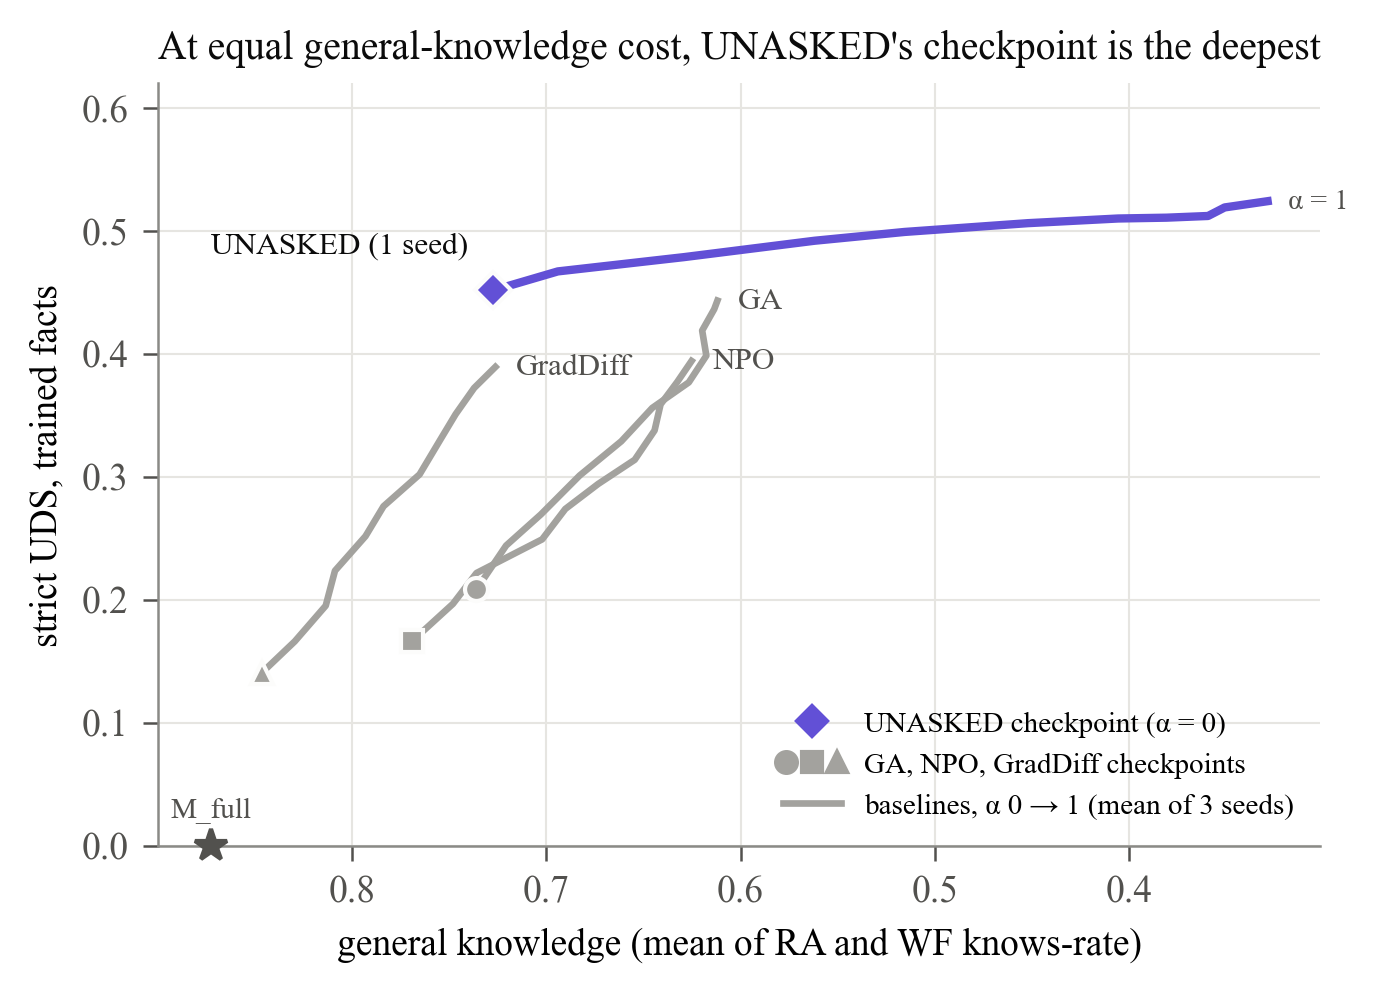
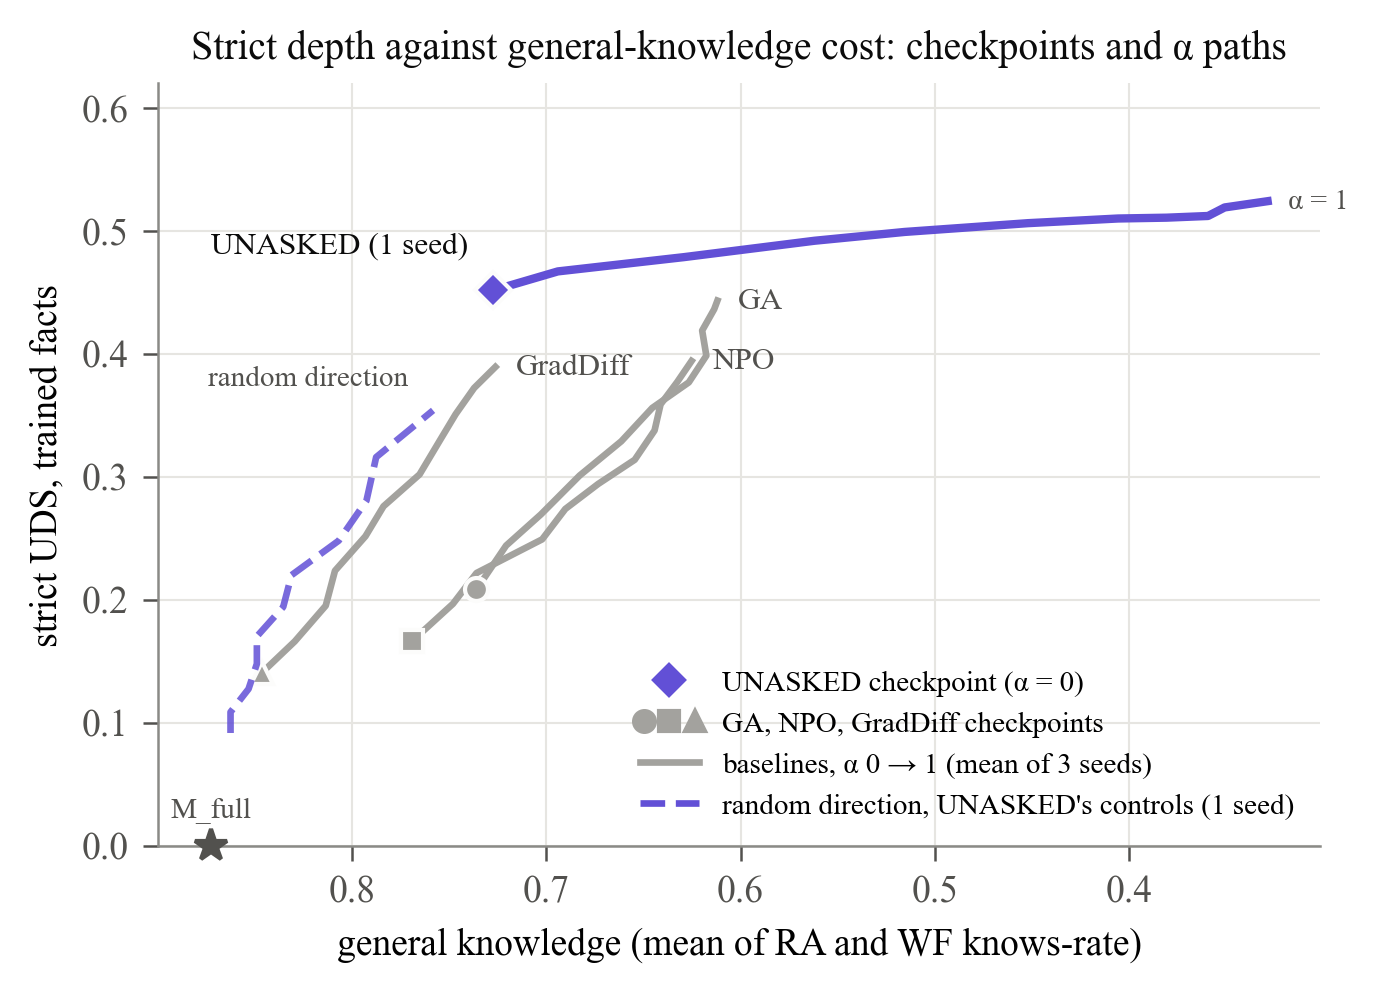
RESULTS 19.5: UNASKED matched-damage control (E2 met in R) and the general-knowledge gap; report and figure 16 read every control of a seed as one damage path

diff --git a/deeperase/scripts/unasked_report.py b/deeperase/scripts/unasked_report.py
@@ -5,7 +5,13 @@ point and computes:
 
 * UDS and strict UDS on trained, held-out and paraphrased-question facts;
 * R, RA and WF;
-* the damage-matched excess of strict UDS, when the seed has a control;
+* the damage-matched excess of strict UDS, when the seed has a control (the
+  pre-registered control, matched on R: the untagged ``control_x*`` run);
+* the same excess matched on general knowledge (mean of RA and WF) instead,
+  exploratory. UNASKED costs far more general knowledge than R, so R-matched
+  damage is the lenient comparison for it. All control runs of a seed (e.g. a
+  ``_genmatch`` run at a larger scale) share one random direction, so together
+  they form one damage path;
 * for runs with the paraphrased-answer split, the same facts' UDS and strict
   UDS on the original and on the paraphrased answer (paired: only facts with
   a KE layer in both).
@@ -58,6 +64,50 @@ def point(audit: dict, run: Path, alpha: float) -> dict:
     return out
 
 
+def _general(run: Path, alpha: float) -> Optional[float]:
+    g = _groups(run, alpha)
+    return (g["RA"] + g["WF"]) / 2 if g.get("RA") is not None and g.get("WF") is not None else None
+
+
+def _interp(x: float, pts: List[tuple]) -> Optional[float]:
+    pts = sorted(pts)
+    for (x0, y0), (x1, y1) in zip(pts, pts[1:]):
+        if x0 <= x <= x1:
+            return y0 if x1 == x0 else y0 + (y1 - y0) * (x - x0) / (x1 - x0)
+    return None
+
+
+def general_matched(run: Path, audit: dict, controls: Sequence[Path],
+                    split: str = "trained") -> Optional[dict]:
+    """Strict-UDS excess over random damage of the same general-knowledge cost.
+
+    For each alpha of the run, the controls' strict UDS is interpolated at the
+    run's general knowledge (mean of RA and WF) along the controls' points.
+    Alphas outside the controls' range are left out.
+    """
+    pts = []
+    for c in controls:
+        ac = audit_run(c)
+        for r in (ac or {}).get("splits", {}).get(split, []):
+            g = _general(c, r["alpha"])
+            if g is not None:
+                pts.append((g, r["strict"]))
+    if not pts:
+        return None
+    rows = []
+    for r in audit["splits"].get(split, []):
+        g = _general(run, r["alpha"])
+        c = None if g is None else _interp(g, pts)
+        rows.append({"alpha": r["alpha"], "general": g, "strict": r["strict"],
+                     "control_strict": c, "excess": None if c is None else r["strict"] - c})
+    ex = [x["excess"] for x in rows if x["excess"] is not None]
+    at0 = next((x for x in rows if abs(x["alpha"]) < 1e-9), None)
+    return {"by_alpha": rows, "mean": sum(ex) / len(ex) if ex else None, "n_matched": len(ex),
+            "at_checkpoint": at0["excess"] if at0 else None,
+            "controls": [c.name for c in controls],
+            "control_general_range": [min(g for g, _ in pts), max(g for g, _ in pts)]}
+
+
 def answer_check(run: Path, alpha: float) -> Optional[dict]:
     """The same facts on the original and the paraphrased answer, paired."""
     f = run / "partial" / f"alpha_{alpha:.3f}.json"
@@ -98,10 +148,14 @@ def _get(p: dict, split: str, key: str) -> Optional[float]:
 def collect(studies: Path) -> dict:
     runs = sorted(d for d in studies.glob("study_v2_unasked_1B_s*_lr*") if d.is_dir()
                   and not d.name.split("_lr", 1)[1].count("_"))
-    controls: Dict[int, dict] = {}
-    for d in sorted(studies.glob("control_x*_v2_unasked_1B_s*")):
-        a = audit_run(d)
-        if a:
+    controls: Dict[int, dict] = {}            # the pre-registered (untagged) control
+    damage_paths: Dict[int, List[Path]] = {}  # every control run of the seed
+    for d in sorted(studies.glob("control_x*_v2_unasked_1B_s*_lr*")):
+        a = audit_run(d) if d.is_dir() else None
+        if not a:
+            continue
+        damage_paths.setdefault(int(a["seed"]), []).append(d)
+        if not d.name.split("_lr", 1)[1].count("_"):
             controls[int(a["seed"])] = a
     seeds = {}
     for d in runs:
@@ -117,6 +171,7 @@ def collect(studies: Path) -> dict:
             if controls.get(int(a["seed"])) else None,
             "excess_strict_heldout": (((ex or {}).get("heldout") or {}).get("strict") or {}).get("mean")
             if controls.get(int(a["seed"])) else None,
+            "general_matched": general_matched(d, a, damage_paths.get(int(a["seed"]), [])),
         }
     variants = {}
     for d in sorted(studies.glob("study_v2_unasked_1B_s*_lr*_*")):
@@ -201,6 +256,16 @@ def to_markdown(rep: dict) -> str:
             lines.append(f"| {n} | {c['n']} | {_f(c['original']['uds'])} / "
                          f"{_f(c['original']['strict'])} | {_f(c['paraphrased']['uds'])} / "
                          f"{_f(c['paraphrased']['strict'])} |")
+    gm = [(s["run"], s.get("general_matched")) for s in rep["seeds"].values()]
+    gm = [(n, g) for n, g in gm if g]
+    if gm:
+        lines += ["", "Strict-UDS excess over random damage of the same general-knowledge cost "
+                  "(exploratory; E2 is matched on R):", ""]
+        for n, g in gm:
+            lo, hi = g["control_general_range"]
+            lines.append(f"* {n}: at the checkpoint {_f(g['at_checkpoint'])}; mean over "
+                         f"{g['n_matched']} matched alphas {_f(g['mean'])} (controls "
+                         f"{', '.join(g['controls'])}; general knowledge {lo:.3f}-{hi:.3f})")
     c = rep["criteria"]
     lines += ["", f"E1 checkpoint strict UDS (trained, mean): {_f(c['E1_checkpoint_strict_trained']['value'])}"
               f" (>= {E1_MIN}): {c['E1_checkpoint_strict_trained']['verdict']}",

diff --git a/tests/test_unasked_report.py b/tests/test_unasked_report.py
@@ -14,7 +14,8 @@ def _ex(d2: float):
             "delta_s2": {"0": d2, "1": d2}, "ke_layers": [0, 1], "uds": min(d2, 1.0)}
 
 
-def _run(root, name, seed, d2_trained, d2_para, ra=0.85, wf=0.84, control=None, d2_ans=None):
+def _run(root, name, seed, d2_trained, d2_para, ra=0.85, wf=0.84, control=None, d2_ans=None,
+         ra1=None):
     d = root / name
     (d / "partial").mkdir(parents=True)
     cfg = {"method": name.split("_")[2] if name.startswith("study") else "unasked",
@@ -30,7 +31,8 @@ def _run(root, name, seed, d2_trained, d2_para, ra=0.85, wf=0.84, control=None, 
         if d2_ans is not None:
             depth["trained_para_ans"] = {"tau": 0.05, "per_example": [
                 {**_ex(d2_ans * scale), "example_id": "para_ans_1"}]}
-        groups = {"R": {"rate": 0.8 - 0.05 * a}, "RA": {"rate": ra}, "WF": {"rate": wf}}
+        groups = {"R": {"rate": 0.8 - 0.05 * a},
+                  "RA": {"rate": ra if a == 0 or ra1 is None else ra1}, "WF": {"rate": wf}}
         (d / "partial" / f"alpha_{a:.3f}.json").write_text(json.dumps(
             {"points": pts, "point": pts[0], "depth": depth, "groups": groups}))
     return d
@@ -40,6 +42,10 @@ def test_criteria_from_saved_runs(tmp_path):
     _run(tmp_path, "study_v2_unasked_1B_s0_lr3e-06", 0, 0.5, 0.4, d2_ans=0.3)
     _run(tmp_path, "study_v2_unasked_1B_s0_lr3e-06_lam3", 0, 0.9, 0.9)   # a variant: not in E1-E5
     _run(tmp_path, "control_x10_v2_unasked_1B_s0_lr3e-06", 0, 0.1, 0.1, control=10.0)
+    # a larger-scale control along the same direction: general knowledge 0.84 -> 0.64,
+    # strict 0.6 -> 0.9; it must not replace the pre-registered control in E2
+    _run(tmp_path, "control_x15_v2_unasked_1B_s0_lr3e-06_genmatch", 0, 0.6, 0.6,
+         control=15.0, ra=0.84, wf=0.84, ra1=0.44)
     _run(tmp_path, "study_v2_ga_1B_s0_lr1e-08", 0, 0.2, 0.1)
     out = tmp_path / "rep"
     assert ur.main(["--dir", str(tmp_path), "--out", str(out)]) == 0
@@ -52,6 +58,13 @@ def test_criteria_from_saved_runs(tmp_path):
     assert c["E3_paraphrase_ratio"]["verdict"] == "met"
     # matched at R 0.80 (0.5 - 0.1) and 0.75 (0.75 - 0.15): mean +0.5
     assert c["E2_excess_strict_trained"]["per_seed"][0] == pytest.approx(0.5)
+    gm = rep["seeds"]["0"]["general_matched"]
+    assert gm["controls"] == ["control_x10_v2_unasked_1B_s0_lr3e-06",
+                              "control_x15_v2_unasked_1B_s0_lr3e-06_genmatch"]
+    # the run's checkpoint has general knowledge 0.845: between 0.84 (strict 0.6)
+    # and the x10 control's 0.845 (strict 0.1) -> interpolated 0.1, excess 0.4
+    assert gm["at_checkpoint"] == pytest.approx(0.4)
+    assert "same general-knowledge cost" in out.with_suffix(".md").read_text()
     assert c["E4_general_knowledge"]["verdict"] == "met"
     assert "study_v2_ga_1B_s0_lr1e-08" in rep["comparisons"]
     check = rep["seeds"]["0"]["answer_check"]["0"]

diff --git a/report/make_figures_v2.py b/report/make_figures_v2.py
@@ -220,14 +220,30 @@ def fig16_unasked_depth_vs_general():
     ax.annotate("α = 1", (x[-1], y[-1]), xytext=(5, 0), textcoords="offset points",
                 fontsize=7, va="center", color=INK2)
     extra = []
-    ctl = sorted(d for d in STUDIES.glob("control_x*_v2_unasked_1B_s*_lr*") if d.is_dir())
-    if ctl:
-        cx, cy = _strict_path(ctl)
-        ax.plot(cx, cy, "--", color=UNASKED_COLOR, lw=1.6, alpha=0.85, zorder=3)
-        ax.annotate("its damage control", (cx[-1], cy[-1]), xytext=(5, 0),
-                    textcoords="offset points", fontsize=7, va="center", color=INK2)
+    # every control run of a seed shares one random direction: one damage path,
+    # ordered by distance from M_full (scale x (1 + alpha))
+    paths = {}
+    for d in sorted(STUDIES.glob("control_x*_v2_unasked_1B_s*_lr*")):
+        if not d.is_dir():
+            continue
+        cfg = json.loads((d / "config.json").read_text())
+        t = load_run(d)["trajectories"]["trained"]
+        for r in audit_run(d)["splits"]["trained"]:
+            if r["alpha"] in t["alpha"]:
+                i = t["alpha"].index(r["alpha"])
+                paths.setdefault(cfg["seed"], []).append(
+                    (cfg["control_scale"] * (1 + r["alpha"]), t["general_utility"][i], r["strict"]))
+    for seed, pts in sorted(paths.items()):
+        pts.sort()
+        ax.plot([p[1] for p in pts], [p[2] for p in pts], "--", color=UNASKED_COLOR, lw=1.6,
+                alpha=0.85, zorder=3)
+    if paths:
+        far = max((p for pts in paths.values() for p in pts), key=lambda p: p[0])
+        ax.annotate("random direction", (far[1], far[2]), xytext=(-6, 6),
+                    textcoords="offset points", fontsize=7, ha="right", color=INK2)
+        n = len(paths)
         extra.append((plt.Line2D([], [], color=UNASKED_COLOR, lw=1.6, ls="--"),
-                      f"UNASKED's matched-damage control ({len(ctl)} seed{'s' if len(ctl) > 1 else ''})"))
+                      f"random direction, UNASKED's controls ({n} seed{'s' if n > 1 else ''})"))
     lam = sorted(STUDIES.glob("study_v2_unasked_1B_s*_lr*_lam3"))
     if lam:
         lx, ly = _strict_path(lam)
@@ -256,7 +272,7 @@ def fig16_unasked_depth_vs_general():
     ax.invert_xaxis()
     ax.set_ylim(0, 0.62)
     _grid(ax)
-    ax.set_title("At equal general-knowledge cost, UNASKED's checkpoint is the deepest",
+    ax.set_title("Strict depth against general-knowledge cost: checkpoints and α paths",
                  fontsize=9.5, color=INK)
     fig.savefig(OUT / "fig16_unasked_depth_vs_general.png")
     plt.close(fig)

diff --git a/RESULTS.md b/RESULTS.md
@@ -1434,7 +1434,7 @@ reaches:
      author (about 0.2 UDS, §17);
    * collateral damage.
 
-   The matched-damage control separates them (E2, job 024, running).
+   The matched-damage control separates them (§19.5).
 5. **General knowledge costs about what GA costs.** RA 0.72 and WF 0.735
    (M_full 0.89 and 0.855). That is GA's level (mean 0.72 / 0.755) and below
    GradDiff's (0.86 / 0.83). **E4 is not met** (RA ≥ 0.77 and WF ≥ 0.80). The
@@ -1556,3 +1556,42 @@ out a trigger tied to the question wording, but not one tied to the measured
 positions. The forced-choice items (other prompt formats) and the relearning
 attack (§19.3) are therefore the independent checks. Both say most of the
 knowledge is still there.
+
+### 19.5 Matched-damage control (E2): beyond damage in R, not yet in general knowledge
+
+`control_probe.py` found the random-direction scale whose damage to R matches
+UNASKED's: 10× the update's norm, per tensor. At α = 1 that control has R
+0.738, against UNASKED's 0.720. At 30× the norm, R falls to 0.285. UNASKED's
+update is already large, which is why the matched displacement is only 10×
+its norm (the baselines needed 320-540×). The probe and the control study
+recorded commit `cbe6e41` (clean tree), H100 slice.
+
+| α | UNASKED: R / general knowledge / strict UDS (trained) | Random direction at 10×: R / general knowledge / strict UDS |
+|---|---|---|
+| 0 | 0.772 / 0.728 / **0.452** | 0.800 / 0.862 / 0.092 |
+| 0.5 | 0.743 / 0.452 / 0.506 | 0.757 / 0.835 / 0.194 |
+| 1 | 0.720 / 0.329 / 0.524 | 0.738 / 0.758 / 0.354 |
+
+1. **E2 is met on seed 0, as specified.** Matched on R (the pre-registered
+   utility), UNASKED's strict UDS exceeds the control's by 0.20-0.32 at
+   α = 0-0.5, a mean of **+0.285** on trained facts. The bar is ≥ 0.15. On
+   held-out facts the excess is +0.19. Beyond α = 0.5, UNASKED's R falls below
+   anything the control reached (0.738), so those points have no match.
+2. **The R match is lenient for UNASKED.** At equal R, the control keeps far
+   more general knowledge. At UNASKED's checkpoint the control's general
+   knowledge (mean of RA and WF) is 0.849, against UNASKED's 0.728. Over the
+   matched alphas the mean gap is +0.235. The same gap for the baselines'
+   controls is +0.145 (GA), +0.116 (NPO) and about 0 (GradDiff). UNASKED's
+   retain anchor protects R, so its damage lands on RA and WF instead.
+3. **Along the same random direction, depth rises steeply as general
+   knowledge falls.** Strict UDS goes from 0.09 at general knowledge 0.862 to
+   0.35 at 0.758 (figure 16, dashed). That is steeper than GA's or NPO's own
+   path. UNASKED's checkpoint, at 0.728 and 0.452, lies just beyond the end of
+   the control's path.
+   * **To match general knowledge**, a control at 15× the norm is queued: the
+     same seed and direction, continued to 30×.
+   * **The comparison** (exploratory, `unasked_report.general_matched`) is
+     UNASKED's strict UDS against the control's at UNASKED's general-knowledge
+     cost. If that excess is near zero, UNASKED's extra depth is what random
+     damage of the same general-knowledge cost would give.
+

diff --git a/results/analysis/unasked_report.md b/results/analysis/unasked_report.md
@@ -12,8 +12,12 @@
 | study_v2_graddiff_1B_s1_lr5e-08 | 0 | 0.121 / 0.120 | 0.057 / 0.056 | – / – | 0.765 | 0.86 | 0.829 |
 | study_v2_graddiff_1B_s2_lr5e-08 | 0 | 0.174 / 0.158 | 0.076 / 0.071 | – / – | 0.765 | 0.85 | 0.838 |
 
+Strict-UDS excess over random damage of the same general-knowledge cost (exploratory; E2 is matched on R):
+
+* study_v2_unasked_1B_s0_lr3e-06: at the checkpoint –; mean over 0 matched alphas – (controls control_x10_v2_unasked_1B_s0_lr3e-06; general knowledge 0.758-0.862)
+
 E1 checkpoint strict UDS (trained, mean): 0.452 (>= 0.35): met
-E2 damage-matched strict excess (trained, per seed): [None] (>= 0.15 each): no data
+E2 damage-matched strict excess (trained, per seed): [0.285] (>= 0.15 each): met
 E3 paraphrase / trained strict: 0.81 (>= 0.7): met
 E4 RA 0.72, WF 0.735 (>= 0.77, 0.8): not met
 E5 held-out UDS 0.397, strict 0.333 (reported)
